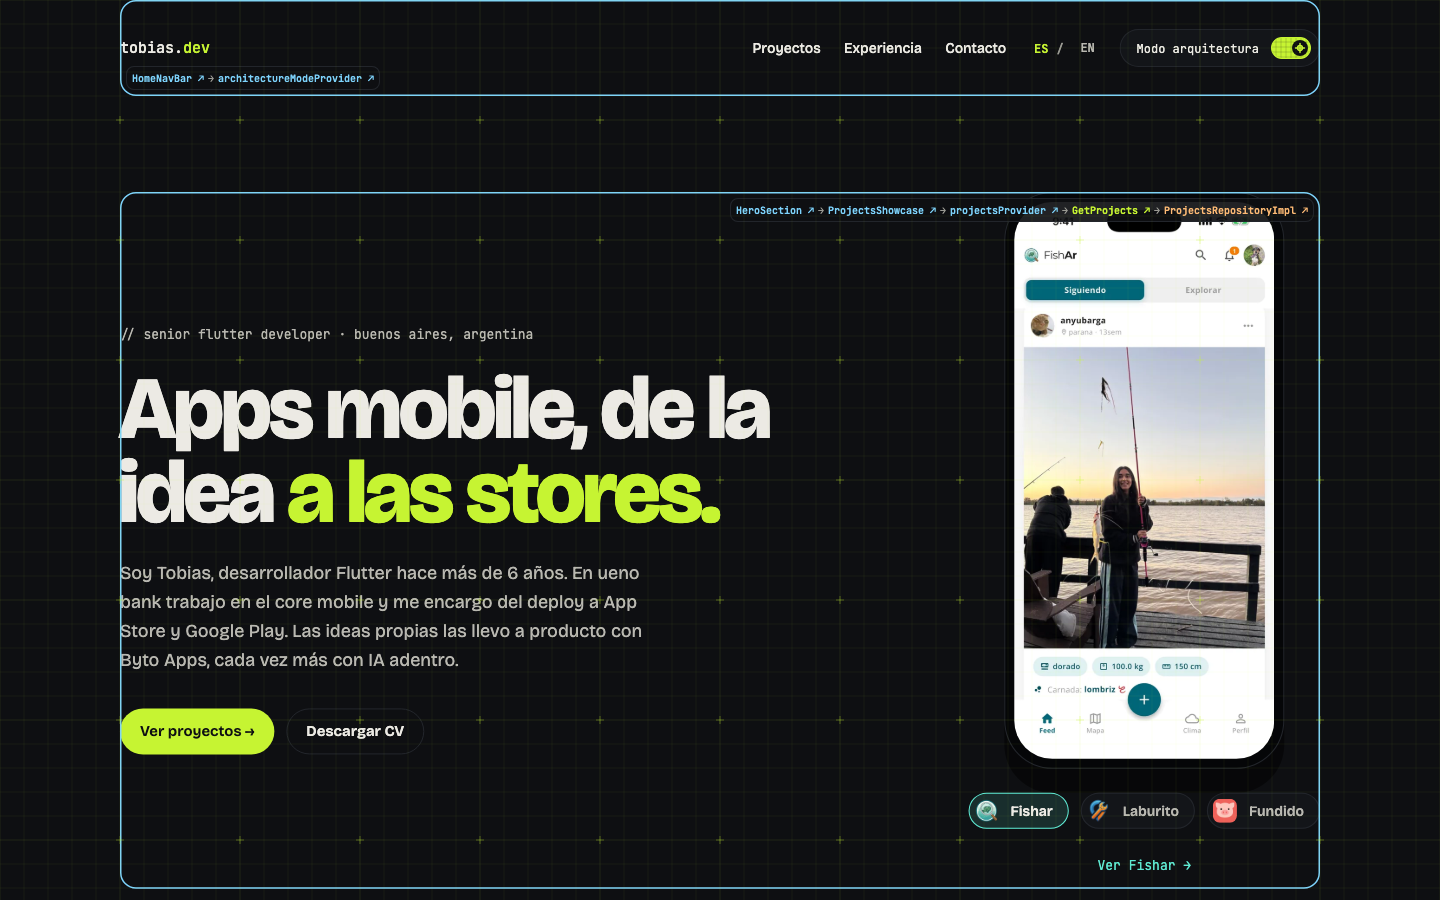
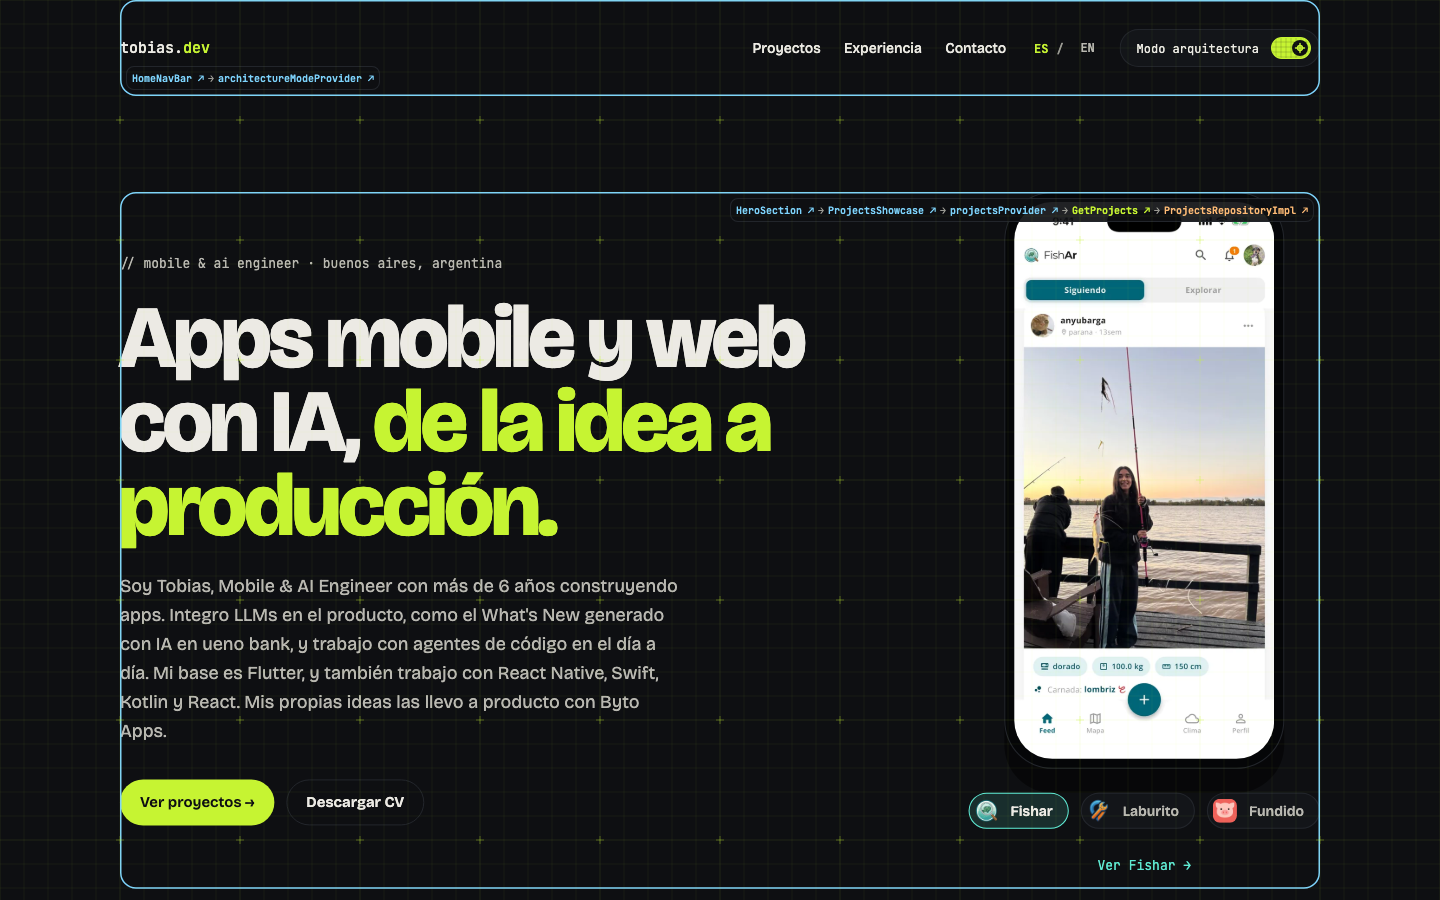
feat(home): position as Mobile & AI Engineer
The hero, metrics, stack, about and link previews now lead with AI in the
product and frontend beyond Flutter (React Native, Swift, Kotlin, React).
A new section, "IA que llega a producción", shows the AI work with where
it lives: the AI-written What's New at ueno bank, Fundido's expenses by
chat and this portfolio, built with coding agents.

Changed region(s): [[0.0625, 0.3111, 0.5625, 0.9333], [0.0938, 0.28, 0.3438, 0.3111]]

diff --git a/lib/features/home/presentation/widgets/ai_section.dart b/lib/features/home/presentation/widgets/ai_section.dart
@@ -1,0 +1,126 @@
+import 'package:flutter/material.dart';
+import 'package:flutter_riverpod/flutter_riverpod.dart';
+import 'package:go_router/go_router.dart';
+import 'package:portfolio/core/architecture_mode/source_repository.dart';
+import 'package:portfolio/core/design_system/design_system.dart';
+import 'package:portfolio/core/l10n/l10n.dart';
+import 'package:portfolio/core/platform/link_opener.dart';
+import 'package:portfolio/core/router/app_router.dart';
+
+/// "IA que llega a producción": the AI work, one card per case, each with
+/// where it lives and, when there is one, a link to see it.
+class AiSection extends ConsumerWidget {
+  const AiSection({super.key});
+
+  @override
+  Widget build(BuildContext context, WidgetRef ref) {
+    final l10n = context.l10n;
+    final theme = Theme.of(context);
+    final size = ScreenSize.of(context);
+    final repository = ref.watch(sourceRepositoryUrlProvider).value;
+
+    final cards = [
+      _AiCard(
+        tag: l10n.aiWhatsNewTag,
+        title: l10n.aiWhatsNewTitle,
+        body: l10n.aiWhatsNewBody,
+      ),
+      _AiCard(
+        tag: l10n.aiFundidoTag,
+        title: l10n.aiFundidoTitle,
+        body: l10n.aiFundidoBody,
+        action: l10n.aiSeeProject,
+        onAction: () => context.go(
+          AppRoutes.projectPath(AppLocale.of(context), 'fundido'),
+        ),
+      ),
+      _AiCard(
+        tag: l10n.aiAgentsTag,
+        title: l10n.aiAgentsTitle,
+        body: l10n.aiAgentsBody,
+        action: repository == null ? null : l10n.aiSeeRepo,
+        onAction: repository == null
+            ? null
+            : () => ref.read(linkOpenerProvider).open(repository),
+      ),
+    ];
+
+    return RevealOnScroll(
+      child: Column(
+        crossAxisAlignment: CrossAxisAlignment.stretch,
+        children: [
+          Text(l10n.aiEyebrow, style: theme.textTheme.labelMedium),
+          const SizedBox(height: AppSpacing.md),
+          SectionHeader(title: l10n.aiTitle),
+          const SizedBox(height: AppSpacing.lg),
+          ConstrainedBox(
+            constraints: const BoxConstraints(maxWidth: 640),
+            child: Text(l10n.aiLead, style: theme.textTheme.bodyLarge),
+          ),
+          const SizedBox(height: AppSpacing.xl),
+          ResponsiveGrid(
+            columns: size.isCompact ? 1 : 3,
+            children: cards,
+          ),
+        ],
+      ),
+    );
+  }
+}
+
+class _AiCard extends StatelessWidget {
+  const _AiCard({
+    required this.tag,
+    required this.title,
+    required this.body,
+    this.action,
+    this.onAction,
+  });
+
+  final String tag;
+  final String title;
+  final String body;
+  final String? action;
+  final VoidCallback? onAction;
+
+  @override
+  Widget build(BuildContext context) {
+    final theme = Theme.of(context);
+    final action = this.action;
+    return Container(
+      padding: const EdgeInsets.all(AppSpacing.lg + 4),
+      decoration: BoxDecoration(
+        color: theme.colorScheme.surfaceContainerLow,
+        borderRadius: AppRadii.mdAll,
+        border: Border.all(color: theme.colorScheme.outline),
+      ),
+      child: Column(
+        crossAxisAlignment: CrossAxisAlignment.start,
+        children: [
+          Text(
+            tag,
+            style: AppTypography.monoStyle(
+              size: 13,
+              color: theme.colorScheme.primary,
+            ),
+          ),
+          const SizedBox(height: AppSpacing.sm),
+          Text(title, style: theme.textTheme.titleLarge),
+          const SizedBox(height: AppSpacing.sm),
+          Text(body, style: theme.textTheme.bodyMedium),
+          if (action != null) ...[
+            const SizedBox(height: AppSpacing.md),
+            TextButton(
+              onPressed: onAction,
+              style: TextButton.styleFrom(
+                padding: EdgeInsets.zero,
+                minimumSize: const Size(0, 36),
+              ),
+              child: Text(action),
+            ),
+          ],
+        ],
+      ),
+    );
+  }
+}

diff --git a/web/index.html b/web/index.html
@@ -6,8 +6,8 @@
 
   <meta charset="UTF-8">
   <meta name="viewport" content="width=device-width, initial-scale=1">
-  <title>Tobias Arevalo · Flutter Developer</title>
-  <meta name="description" content="Portfolio de Tobias Arevalo, Flutter developer: proyectos, experiencia y cómo están construidos, con clean architecture a la vista.">
+  <title>Tobias Arevalo · Mobile & AI Engineer</title>
+  <meta name="description" content="Portfolio de Tobias Arevalo, Mobile &amp; AI Engineer: apps mobile y web con IA, de la idea a producción. Flutter, React Native, Swift, Kotlin y React.">
   <meta name="theme-color" content="#0E0F12">
   <meta name="color-scheme" content="dark">
 
@@ -16,17 +16,17 @@
   <meta property="og:type" content="website">
   <meta property="og:url" content="https://tobias-arevalo.web.app/">
   <meta property="og:site_name" content="tobias.dev">
-  <meta property="og:title" content="Tobias Arevalo · Flutter Developer">
-  <meta property="og:description" content="Apps Flutter con arquitectura que aguanta. Proyectos, experiencia y cómo están construidos.">
+  <meta property="og:title" content="Tobias Arevalo · Mobile &amp; AI Engineer">
+  <meta property="og:description" content="Apps mobile y web con IA, de la idea a producción. Proyectos, experiencia y cómo están construidos.">
   <meta property="og:image" content="https://tobias-arevalo.web.app/og-image.png">
   <meta property="og:image:width" content="1200">
   <meta property="og:image:height" content="630">
-  <meta property="og:image:alt" content="tobias.dev — Apps Flutter con arquitectura que aguanta.">
+  <meta property="og:image:alt" content="tobias.dev — Apps mobile y web con IA, de la idea a producción.">
   <meta property="og:locale" content="es_AR">
   <meta property="og:locale:alternate" content="en_US">
   <meta name="twitter:card" content="summary_large_image">
-  <meta name="twitter:title" content="Tobias Arevalo · Flutter Developer">
-  <meta name="twitter:description" content="Apps Flutter con arquitectura que aguanta.">
+  <meta name="twitter:title" content="Tobias Arevalo · Mobile &amp; AI Engineer">
+  <meta name="twitter:description" content="Apps mobile y web con IA, de la idea a producción.">
   <meta name="twitter:image" content="https://tobias-arevalo.web.app/og-image.png">
 
   <!-- Icons and PWA -->

diff --git a/test/core/router/app_router_test.dart b/test/core/router/app_router_test.dart
@@ -9,7 +9,7 @@ void main() {
       await tester.pumpPortfolio();
 
       expect(
-        find.text('Apps mobile, de la idea a las stores.'),
+        find.text('Apps mobile y web con IA, de la idea a producción.'),
         findsOneWidget,
       );
       expect(find.widgetWithText(TextButton, 'EN'), findsOneWidget);
@@ -19,7 +19,7 @@ void main() {
       await tester.pumpPortfolio(location: '/en');
 
       expect(
-        find.text('Mobile apps, from the idea to the stores.'),
+        find.text('Mobile and web apps with AI, from idea to production.'),
         findsOneWidget,
       );
       expect(find.widgetWithText(TextButton, 'ES'), findsOneWidget);
@@ -35,7 +35,7 @@ void main() {
 
       expect(router.routeInformationProvider.value.uri.path, '/en');
       expect(
-        find.text('Mobile apps, from the idea to the stores.'),
+        find.text('Mobile and web apps with AI, from idea to production.'),
         findsOneWidget,
       );
 
@@ -44,7 +44,7 @@ void main() {
 
       expect(router.routeInformationProvider.value.uri.path, '/');
       expect(
-        find.text('Apps mobile, de la idea a las stores.'),
+        find.text('Apps mobile y web con IA, de la idea a producción.'),
         findsOneWidget,
       );
     });
@@ -67,7 +67,7 @@ void main() {
 
       expect(router.routeInformationProvider.value.uri.path, '/en');
       expect(
-        find.text('Mobile apps, from the idea to the stores.'),
+        find.text('Mobile and web apps with AI, from idea to production.'),
         findsOneWidget,
       );
     });

diff --git a/test/features/home/ai_section_test.dart b/test/features/home/ai_section_test.dart
@@ -1,0 +1,43 @@
+import 'package:flutter_test/flutter_test.dart';
+import 'package:portfolio/core/platform/link_opener.dart';
+import 'package:portfolio/features/home/presentation/widgets/ai_section.dart';
+import 'package:portfolio/features/projects/presentation/pages/project_detail_page.dart';
+
+import '../../helpers/fakes.dart';
+import '../../helpers/pump_app.dart';
+
+void main() {
+  testWidgets('shows the AI work and links the portfolio repo', (
+    tester,
+  ) async {
+    final opener = RecordingLinkOpener();
+    await tester.pumpPortfolio(
+      overrides: [linkOpenerProvider.overrideWithValue(opener)],
+    );
+    await tester.ensureVisible(find.byType(AiSection));
+    await tester.pump();
+
+    expect(find.text('IA que llega a producción'), findsOneWidget);
+    expect(find.text("What's New generado con IA"), findsOneWidget);
+    expect(find.text('Gastos por chat'), findsOneWidget);
+    expect(find.text('Desarrollo con agentes'), findsOneWidget);
+
+    await tester.tap(find.text('Ver el repo ↗'));
+    expect(
+      opener.opened.single,
+      Uri.parse('https://github.com/tarevaloit/portfolio'),
+    );
+  });
+
+  testWidgets('"Ver proyecto" opens Fundido', (tester) async {
+    await tester.pumpPortfolio();
+    await tester.ensureVisible(find.text('Ver proyecto →'));
+    await tester.pump();
+
+    await tester.tap(find.text('Ver proyecto →'));
+    await tester.pumpNavigation();
+
+    expect(find.byType(ProjectDetailPage), findsOneWidget);
+    expect(find.text('Fundido'), findsWidgets);
+  });
+}

diff --git a/lib/features/home/presentation/pages/home_page.dart b/lib/features/home/presentation/pages/home_page.dart
@@ -7,6 +7,7 @@ import 'package:portfolio/core/shaders/blueprint_background.dart';
 import 'package:portfolio/features/about/presentation/widgets/about_section.dart';
 import 'package:portfolio/features/contact/presentation/widgets/contact_section.dart';
 import 'package:portfolio/features/experience/presentation/widgets/experience_section.dart';
+import 'package:portfolio/features/home/presentation/widgets/ai_section.dart';
 import 'package:portfolio/features/home/presentation/widgets/byto_section.dart';
 import 'package:portfolio/features/home/presentation/widgets/hero_section.dart';
 import 'package:portfolio/features/home/presentation/widgets/home_footer.dart';
@@ -99,6 +100,13 @@ class _HomePageState extends State<HomePage> {
                 LayerBadge(
                   chain: ArchitectureMap.marquee,
                   child: Marquee(items: _stackItems(context)),
+                ),
+                gap,
+                const PageContainer(
+                  child: LayerBadge(
+                    chain: ArchitectureMap.ai,
+                    child: AiSection(),
+                  ),
                 ),
                 gap,
                 const PageContainer(

diff --git a/lib/core/architecture_mode/architecture_map.dart b/lib/core/architecture_mode/architecture_map.dart
@@ -56,6 +56,14 @@ abstract final class ArchitectureMap {
     _projectsRepository,
   ];
 
+  static const List<LayerRef> ai = [
+    LayerRef.presentation('AiSection', '$_home/widgets/ai_section.dart'),
+    LayerRef.presentation(
+      'sourceRepositoryUrlProvider',
+      'lib/core/architecture_mode/source_repository.dart',
+    ),
+  ];
+
   static const List<LayerRef> byto = [
     LayerRef.presentation('BytoSection', '$_home/widgets/byto_section.dart'),
     _projectsProvider,
@@ -216,6 +224,7 @@ abstract final class ArchitectureMap {
   static List<List<LayerRef>> get all => [
     navBar,
     hero,
+    ai,
     byto,
     metrics,
     marquee,

diff --git a/test/features/home/responsive_test.dart b/test/features/home/responsive_test.dart
@@ -46,7 +46,7 @@ void main() {
           // The hero title never breaks a word: the phone moves under the
           // copy when the column would get too narrow.
           final titleFinder = find.textContaining(
-            locale == AppLocale.es ? 'Apps mobile' : 'Mobile apps',
+            locale == AppLocale.es ? 'Apps mobile y web' : 'Mobile and web',
           );
           final title = tester.getRect(titleFinder);
           final phone = tester.getRect(find.byType(ProjectsShowcase));

diff --git a/lib/features/home/presentation/widgets/metrics_row.dart b/lib/features/home/presentation/widgets/metrics_row.dart
@@ -11,8 +11,8 @@ class MetricsRow extends StatelessWidget {
     final l10n = context.l10n;
     final metrics = [
       (l10n.metricYearsValue, l10n.metricYearsLabel),
-      (l10n.metricStoresValue, l10n.metricStoresLabel),
       (l10n.metricAiValue, l10n.metricAiLabel),
+      (l10n.metricStoresValue, l10n.metricStoresLabel),
     ];
     final cards = [
       for (final (value, label) in metrics)

diff --git a/tool/brand_assets.py b/tool/brand_assets.py
@@ -69,12 +69,12 @@ d.text((pad, 64), 'tobias.', font=mono(30, 500), fill=TEXT)
 w = d.textlength('tobias.', font=mono(30, 500))
 d.text((pad + w, 64), 'dev_', font=mono(30, 500), fill=LIME)
 title = sans(76)
-lines = [('Apps Flutter con', TEXT), ('arquitectura que', TEXT), ('aguanta.', LIME)]
+lines = [('Apps mobile y web', TEXT), ('con IA, de la idea', TEXT), ('a producción.', LIME)]
 y = 170
 for text, color in lines:
     d.text((pad, y), text, font=title, fill=color)
     y += 84
-d.text((pad, H - 92), 'Flutter Developer · Clean Architecture · Flutter Web', font=mono(24, 400), fill=MUTED)
+d.text((pad, H - 92), 'Mobile & AI Engineer · Flutter · React Native · LLMs', font=mono(24, 400), fill=MUTED)
 # Layer plates.
 px, pw, ph = 820, 300, 96
 plates = [

diff --git a/TODO.md b/TODO.md
@@ -78,6 +78,13 @@ Sacado de `~/Documents/mediomundo-app`, `~/Documents/laburito` y
       sumarlo.
 
 ## Copy a revisar
+- [ ] Posicionamiento Mobile & AI Engineer (hero, métricas, "IA que llega a
+      producción", Sobre mí, meta tags). Falta detalle para hacerlo más
+      concreto: qué integraciones con LLMs hiciste en el trabajo (dónde y para
+      qué) y en qué trabajos o proyectos usaste React Native, Swift, Kotlin y
+      React. Con eso se puede sumar a Experiencia sin exagerar nada.
+- [ ] Los CV en PDF (`assets/cv/`) siguen diciendo "Senior Flutter Developer":
+      actualizarlos con el mismo posicionamiento.
 - [ ] Traducción al inglés del hero: "Flutter apps with architecture that holds
       up." (`lib/l10n/app_en.arb`). La propuse yo; validarla.
 - [ ] Todas las traducciones al inglés de `assets/content/en/` (las hice yo a
